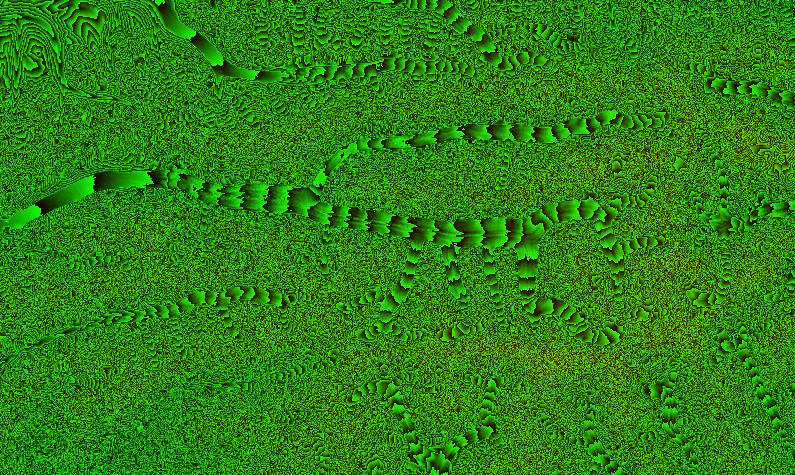
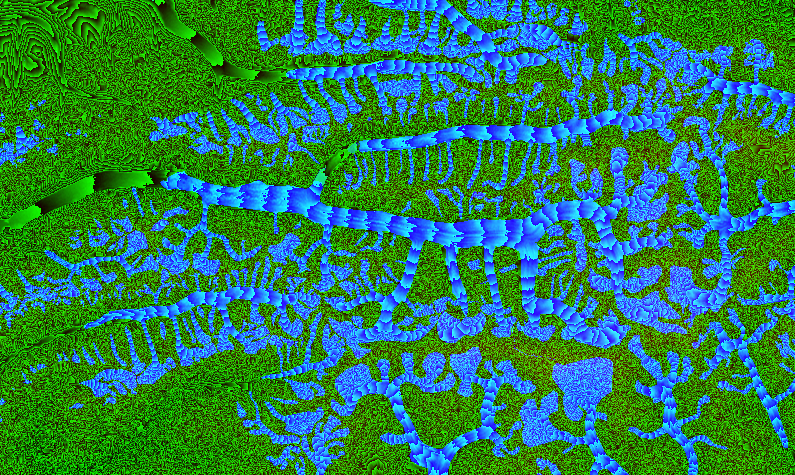
Хан-Тенгри по OpenStreetMap: ледники -- по 341 настоящему контуру (маска в khan.png), Верхнее озеро Мерцбахера -- по контуру OSM, база Ми-8 -- на настоящей вертолётной площадке Южного Иныльчека, миссии -- в настоящих лагерях маршрута на Хан-Тенгри (4200 и 5200 м), подписи главных вершин с высотами. 
Claude-Session: https://claude.ai/code/session_01WeBHUeTcGADwqRGFEtPdA5

diff --git a/src/khanosm.js b/src/khanosm.js
@@ -1,0 +1,7 @@
+// Район Хан-Тенгри по OpenStreetMap (© участники OpenStreetMap, ODbL), tools/zone-osm.mjs: вершины [имя, X, Y, высота, седловина?],
+// лагеря альпинистов [имя, X, Y, высота], вертолётная площадка базы Южный Иныльчек, контур Верхнего озера Мерцбахера.
+// Маска ледников (255) и озера (128) -- в синем канале khan.png.
+export const KPEAKS = [["Пик Победы",247185,-66578,7439],["Обелиск",245354,-66213,7200],["Хан-Тенгри",250910,-47172,7010],["Важа Пшавела",243198,-65476,6918],["пик Военных Топографов",257032,-64513,6873],["Советской Армении",248933,-66577,6850],["Военных Топографов Западная",256435,-64547,6816],["Рапасова Западная",259838,-63191,6814],["пик Дружба",258482,-56935,6800],["Кюэлебоси",266512,-44589,6769],["Восточный пик Победы",252795,-66318,6762],["Рапасова Южная",260667,-64878,6747],["Рапасова Центральная",260598,-64446,6710],["Неру",240195,-65015,6701],["Восточный Шатёр",257116,-46242,6637],["Нагела",257990,-58724,6565],["Памяти экипажа «Союза-11»",237052,-65843,6537],["Погребецкого",256316,-57149,6527],["Западный Шатёр",255292,-46526,6511],["Южное плечо пика Нагела",257802,-59772,6415],["Погребецкого Центральная",255843,-57028,6410],["пик Чапаева",247906,-48457,6371],["Погребецкого Западная",255410,-57194,6370],["Тореза",257951,-52547,6320],["Пржевальского",259848,-44490,6276],["Грудзинского Михаила",260052,-42098,6261],["САВО",234123,-65925,6241],["Дыбенко",234775,-65393,6215],["Зорге",258487,-49478,6210],["100-летия РГО",259915,-43460,6203],["1000-летия Крещения Руси",251960,-60891,6201],["пик Актау",249599,-58086,6181],["Мраморная Стена",258563,-39254,6146],["Петьки",248580,-46455,6120],["8-ми альпинисток",259873,-40559,6110],["пик Кирова",227124,-66634,6073],["Валиханова",256997,-52598,6060],["пик Максима Горького",243739,-49932,6050],["Снежная сказка",258368,-51128,6020],["Высокий",253912,-62599,5964,1],["пик Визбора",254276,-71532,5960],["пик Евгения Абалакова",245962,-48178,5940],["Саладина",253239,-45180,5901],["пик Ауэзова",250348,-57059,5900],["Западное седло Хан-Тенгри",249264,-46607,5860,1],["пик Петровского",233528,-49716,5860],["Баянкол",250941,-39043,5841],["Семёнова",246260,-39921,5816],["Нагела",256185,-59919,5770,1],["Казахстан",253626,-39254,5761],["Эдельвейс",255451,-53085,5740],["Красной Армии",224230,-62249,5736],["пик Шокальского",222511,-58883,5722],["Восточное седло Хан-Тенгри",252886,-45292,5720,1],["Актау",249026,-57725,5710,1],["Мраморная Стена",257531,-38309,5700,1],["Пик Нансена",206352,-53901,5697],["Открытий",254325,-53311,5664],["Волынка",235723,-62791,5631],["Пирамида",248808,-57452,5600],["Вертолётный",241433,-50074,5600,1],["пик 1000-летия Казани",219620,-44852,5576],["Советской Киргизии",240228,-50126,5561],["Трёхглавый",247992,-54497,5504],["Иныльчекский",258242,-47967,5500,1],["Дикий",243127,-62843,5500,1],["Евгения Абалакова",246241,-48211,5500,1],["Чонтерен",254106,-65019,5488,1],["пик Тюрина",231040,-49658,5478],["Карлытау",255476,-39706,5477],["Дарбаза-тау",255299,-49013,5462],["Игнатьева",239789,-39792,5460],["Одиннадцати",248246,-38873,5437],["Лавинный",251048,-62803,5430],["Дарбаза",255181,-48774,5410,1],["Крупской",237468,-48833,5390],["Краснова",242375,-40443,5378],["Пржевальского",259065,-45052,5370,1],["Рыжова",236503,-49097,5360],["Снежная лестница",228472,-41500,5310],["Майлина",250257,-54322,5300],["Арбат",223161,-61612,5300,1],["Фиделя Кастро",225569,-58828,5260,1],["Пионер",225025,-43397,5251],["Лениского Клуба Туристов Москвы",247644,-39250,5250,1],["Дружба",209513,-58082,5250,1],["Кубинской Револющии",225161,-59028,5240],["Вернадского",234348,-58812,5235],["Волкова Николая",251963,-38540,5230,1],["Сланцевый",243183,-61715,5230],["Коляды",227981,-49385,5211],["Жолак-Тоо",251903,-50476,5210],["Северный",249051,-55548,5210,1],["Перо",247159,-58458,5210],["Хрищатого",258891,-54086,5200,1],["Севастополь",237596,-39274,5200,1],["Опасный",245292,-38720,5200,1],["Канджайляу-2",208183,-57553,5200,1],["Канджайляу-1",207710,-57555,5200,1],["Каинды",223586,-60506,5200,1],["Панорамный",242350,-39909,5180,1],["Шахтёров Украины",226170,-54992,5120],["Тугбельчи",264409,-60644,5100,1],["Одесса",238450,-39389,5100,1],["Мерцбахера",224185,-43069,5100,1],["Куюкап",226019,-64956,5100,1],["Константина Заслонова",219594,-56854,5100,1],["Железнодорожник",225812,-64391,5100,1],["Ноктюрн",249999,-55214,5100,1],["Парашютный",246282,-58654,5100],["Карлытау",254892,-38886,5090,1],["Михайлова",237803,-47706,5040],["Пик Александра фон Гумбольдта",193466,-60053,5020],["Пограничник",258716,-36094,5000],["Снежная лестница",227449,-42362,5000,1],["Пирамида",235628,-40397,5000,1],["Одиннадцати",249346,-37943,5000,1],["30-летия Победы",220381,-64483,5000,1],["Тараса Шевченко",216094,-57302,5000,1],["Че Гевары",225620,-59352,5000,1],["Пролетарский турист",234881,-61226,5000,1],["Тюрина",232183,-49653,5000,1],["Юнусова Р.",196346,-59213,4900,1],["Российской экспедиции",218046,-56047,4900,1],["Путеводный",207039,-56361,4900,1],["Проходной",227037,-62112,4900,1],["Академика Казаринова",213125,-65441,4870,1],["Гагарина",197347,-60054,4850,1],["Одесская Ривьера",215650,-45318,4850,1],["Путёк Южный",220615,-45941,4835,1],["Ульяновский",226873,-49587,4800,1],["Томичей",232799,-41277,4800,1],["Мощный Восточный",217288,-65990,4800,1],["Четырёх",234413,-57586,4800,1],["Академика Фрумкина",212224,-65049,4780,1],["Пролетарской печати",230026,-42168,4750,1],["Спортклуба МВТУ им.Баумана",199663,-59915,4750,1],["Мощный Центральный",216700,-65978,4750,1],["Спортклуба КАМАЗ",201328,-58597,4700,1],["Ракетчиков",217093,-56791,4700,1],["Подводников",215223,-57488,4700,1],["Олимпийский",198399,-60303,4700,1],["Мощный Западный",216136,-66092,4700,1],["Пионер",225844,-42912,4660,1],["Харьковский политехник",243027,-32866,4650,1],["Северный Дикий",242036,-57297,4625,1],["Сигитова",243197,-34743,4600,1],["Восточный Ашутер",241408,-32796,4600,1],["Перестройка",194902,-60628,4600,1],["Чонтерен Южный",254827,-75950,4565,1],["Памяти экспедиции \"Локомотива\"",220328,-75024,4560,1],["Семёнова",243354,-33244,4500,1],["Шокальского",218316,-55415,4500,1],["Лушникова",197188,-60324,4500,1],["Пржевальского",196896,-60496,4500,1],["Мушкетова",238242,-37049,4450,1],["Спокойный Восточный",192871,-61543,4420,1],["Баянкольский",245942,-36342,4400,1],["Розовый",244044,-35403,4400,1],["Кольцевой",192849,-61910,4400,1],["Рериха Николая",208240,-44496,4320,1],["Двух Жандармов",211642,-46049,4314,1],["Броненосец Ложный",225602,-49945,4310,1],["Разведочный",217980,-42682,4308,1],["Средний",210020,-44064,4300,1],["Пабло Неруды",209046,-44308,4300,1],["Подарок",194346,-68983,4300,1],["Западный Сквозной",220314,-36040,4279,1],["Гагарина",246924,-33050,4276,1],["Забытый",195370,-44853,4270,1],["Броненосец",225103,-49977,4260,1],["Лейтенантов",237684,-35273,4240,1],["Булантор Центральный",195962,-67402,4231,1],["Отрог",217582,-35685,4220,1],["Космонавтов",244376,-33010,4200,1],["Карасай",242484,-31110,4200,1],["Дозорный",192175,-70544,4200,1],["Разведчиков",217443,-55002,4200,1],["Обзорный",236118,-36279,4200,1],["Булантор Восточный",196960,-67010,4150,1],["Переметный",243929,-32270,4100,1],["Внутренний",240425,-31285,4100,1],["Корумду",192844,-44954,4100,1],["Плато",208713,-42951,4065,1],["Тренировочный",250152,-33624,4054,1],["Ачикташ",200662,-45199,4050,1],["Китайский",257517,-33599,4010,1],["Тюз",201659,-44860,4001,1],["Чонташ",210714,-43674,4000,1],["Студенческий",227225,-36029,4000,1],["Сквозной",221141,-36314,4000,1],["Семи москвичей",223264,-36187,4000,1],["Майбулак",207282,-43656,3900,1],["Верхний Майбулак",205957,-44967,3900,1],["Джонашу",207840,-77758,3640,1],["Айрансу",220902,-76766,0,1],["1000-летия крещения Руси",221962,-63972,0,1],["Подрядчикова",222408,-62423,0,1],["Мирошкина",225165,-49458,0,1],["Кругозор",254680,-33359,0,1]];
+export const KCAMPS = [["Поляна Мерцбахера",221506,-52211,0],["Лагерь 1",244461,-62121,4600],["Лагерь 2",243121,-62878,5200],["Лагерь 3",242861,-64152,5700],["Лагерь 6100",242911,-64438,6100],["Лагерь 4",242903,-64753,6400],["Лагерь 5",243291,-65606,6900],["Лагерь 6",245322,-66219,7100],["лагерь",242923,-64886,0],["лагерь",243019,-65232,6700],["лагерь",245698,-66277,0],["Лагерь 1",249160,-50957,4200],["Лагерь 2",248952,-47762,5200],["Лагерь 3",249277,-46587,5700],["лагерь",203364,-47900,0],["лагерь",207425,-47767,0],["лагерь",198206,-51050,0],["лагерь",199320,-39899,0],["Базовый лагерь \"Слияние\"",252979,-33154,3250],["лагерь",242838,-63997,0],["Лагерь 1",258254,-34192,4300],["Лагерь 1",249433,-44821,0],["Базовый лагерь Хан-Тенгри",247818,-43295,0],["Лагерь 2",249046,-45821,0],["Ива",206832,-49310,0],["Глина",213669,-51260,0],["Дикий",239779,-55537,0],["Комсомолец",230814,-53767,0],["лагерь",254224,-50194,0],["лагерь",250805,-47162,6900],["лагерь",250524,-47058,6600],["лагерь",250360,-46999,6400],["лагерь",250306,-46994,6350]];
+export const KHELI = [244669,-54951];
+export const KLAKE = [[226462,-45265],[226479,-45244],[226489,-45240],[226493,-45243],[226493,-45252],[226494,-45259],[226496,-45259],[226506,-45248],[226524,-45243],[226529,-45253],[226537,-45256],[226546,-45247],[226554,-45247],[226565,-45241],[226571,-45241],[226574,-45249],[226572,-45260],[226584,-45263],[226602,-45262],[226610,-45259],[226611,-45250],[226606,-45247],[226598,-45248],[226595,-45246],[226591,-45247],[226588,-45253],[226584,-45259],[226580,-45257],[226579,-45250],[226587,-45238],[226592,-45222],[226585,-45211],[226581,-45200],[226587,-45186],[226606,-45180],[226624,-45184],[226631,-45183],[226635,-45174],[226637,-45167],[226630,-45162],[226623,-45161],[226618,-45164],[226613,-45166],[226606,-45165],[226605,-45158],[226625,-45139],[226637,-45141],[226641,-45152],[226639,-45159],[226644,-45160],[226649,-45159],[226656,-45159],[226657,-45155],[226654,-45149],[226654,-45142],[226659,-45141],[226664,-45143],[226669,-45141],[226670,-45131],[226684,-45099],[226711,-45061],[226747,-45051],[226755,-45056],[226763,-45056],[226777,-45048],[226781,-45031],[226801,-45027],[226831,-45000],[226842,-44986],[226869,-44997],[226896,-44998],[226915,-44981],[226967,-44898],[227013,-44863],[227042,-44866],[227048,-44900],[227054,-44934],[227070,-44940],[227104,-44917],[227126,-44860],[227141,-44848],[227151,-44850],[227155,-44869],[227168,-44877],[227175,-44878],[227185,-44872],[227195,-44874],[227202,-44879],[227226,-44878],[227315,-44904],[227351,-44910],[227426,-44949],[227466,-44991],[227462,-45029],[227439,-45077],[227418,-45100],[227381,-45110],[227342,-45090],[227318,-45095],[227259,-45154],[227177,-45192],[227120,-45221],[227093,-45290],[227094,-45301],[227084,-45303],[227068,-45306],[227057,-45326],[227062,-45351],[227095,-45382],[227143,-45375],[227158,-45380],[227192,-45400],[227213,-45447],[227172,-45502],[227136,-45515],[227127,-45529],[227144,-45547],[227186,-45564],[227248,-45598],[227272,-45647],[227268,-45657],[227250,-45658],[227236,-45673],[227234,-45698],[227233,-45713],[227213,-45719],[227114,-45707],[227032,-45668],[227000,-45657],[226977,-45681],[226948,-45687],[226933,-45697],[226936,-45724],[226976,-45744],[227018,-45786],[227028,-45828],[227021,-45854],[226995,-45867],[226972,-45896],[226968,-45955],[226956,-45984],[226939,-45982],[226889,-45929],[226842,-45926],[226819,-45952],[226807,-45957],[226771,-45947],[226749,-45946],[226722,-45948],[226684,-45933],[226661,-45918],[226646,-45906],[226635,-45904],[226628,-45900],[226629,-45897],[226634,-45895],[226632,-45893],[226614,-45891],[226579,-45887],[226552,-45876],[226541,-45880],[226536,-45893],[226511,-45885],[226485,-45853],[226452,-45834],[226443,-45838],[226448,-45844],[226455,-45849],[226454,-45857],[226439,-45863],[226424,-45869],[226414,-45875],[226402,-45880],[226399,-45879],[226400,-45876],[226402,-45872],[226396,-45870],[226389,-45865],[226388,-45857],[226381,-45855],[226374,-45858],[226355,-45855],[226348,-45849],[226351,-45814],[226350,-45789],[226347,-45783],[226340,-45779],[226334,-45766],[226337,-45759],[226344,-45755],[226346,-45750],[226348,-45747],[226356,-45753],[226370,-45758],[226375,-45751],[226372,-45744],[226349,-45736],[226325,-45713],[226313,-45691],[226307,-45670],[226308,-45633],[226294,-45614],[226248,-45593],[226232,-45591],[226219,-45591],[226212,-45582],[226220,-45570],[226250,-45560],[226263,-45552],[226275,-45539],[226319,-45497],[226351,-45441],[226383,-45408],[226415,-45376],[226430,-45367],[226453,-45347],[226463,-45322],[226460,-45305],[226460,-45296],[226469,-45287],[226485,-45281],[226486,-45279],[226482,-45279],[226471,-45282],[226465,-45281],[226461,-45274]];

diff --git a/src/khan.js b/src/khan.js
@@ -7,6 +7,8 @@ import * as THREE from 'three';
 import { KHAN, KHAN_POI } from './khandata.js';
 import { gridTerrain } from './world.js';
 import { lakeBowl } from './merz.js';
+import { KPEAKS, KCAMPS, KHELI, KLAKE } from './khanosm.js';
+export { KPEAKS, KCAMPS, KHELI, KLAKE };
 
 export const KHAN_NAMES = { khan: 'Хан-Тенгри', pobeda: 'пик Победы', merz: 'озеро Мерцбахера', bcS: 'базовый лагерь Южный Иныльчек', bcN: 'базовый лагерь Северный Иныльчек', tongue: 'язык ледника Иныльчек' };
 const { W, H, X0, Y1, STEP } = KHAN;
@@ -14,14 +16,14 @@ export const khanInside = (X, Y) => X > X0 + STEP && X < X0 + (W - 2) * STEP && 
 
 // Ледники по карте высот: пологое дно вогнутых долин выше ~2900 м -- лёд; течение -- вниз по сглаженному рельефу.
 // aG: x -- ледник 0..1, y, z -- направление течения (X, Y мира)
-function glaciers(hs) { const N = W * H, at = (A, i, j) => A[Math.min(H - 1, Math.max(0, j)) * W + Math.min(W - 1, Math.max(0, i))];
+function glaciers(hs, osm) { const N = W * H, at = (A, i, j) => A[Math.min(H - 1, Math.max(0, j)) * W + Math.min(W - 1, Math.max(0, i))];
   const blur = (A, r) => { const T = new Float32Array(N), O = new Float32Array(N); // коробочное сглаживание радиусом r клеток (по осям)
     for (let j = 0; j < H; j++) { let s = 0; for (let i = -r; i <= r; i++) s += at(A, i, j); for (let i = 0; i < W; i++) { T[j * W + i] = s / (2 * r + 1); s += at(A, i + r + 1, j) - at(A, i - r, j); } }
     for (let i = 0; i < W; i++) { let s = 0; for (let j = -r; j <= r; j++) s += at(T, i, j); for (let j = 0; j < H; j++) { O[j * W + i] = s / (2 * r + 1); s += at(T, i, j + r + 1) - at(T, i, j - r); } } return O; };
   const sm = (a, b, x) => { const t = Math.max(0, Math.min(1, (x - a) / (b - a))); return t * t * (3 - 2 * t); };
   const m6 = blur(hs, 6), m2 = blur(hs, 1), big = blur(hs, 10), g = new Float32Array(N), out = new Float32Array(N * 3);
   for (let j = 0; j < H; j++) for (let i = 0; i < W; i++) { const k = j * W + i, sx = (at(m2, i + 1, j) - at(m2, i - 1, j)) / (2 * STEP), sy = (at(m2, i, j - 1) - at(m2, i, j + 1)) / (2 * STEP), sl = Math.hypot(sx, sy), asl = hs[k] + 1607, cv = m6[k] - hs[k];
-    g[k] = sm(0.30, 0.14, sl) * sm(2850, 3050, asl) * sm(-15, 30, cv); }
+    g[k] = osm ? (osm[k] === 255 ? 1 : 0) : sm(0.30, 0.14, sl) * sm(2850, 3050, asl) * sm(-15, 30, cv); } // ледники -- по контурам OpenStreetMap; без них -- догадка по рельефу
   const gb = blur(g, 1);
   for (let j = 0; j < H; j++) for (let i = 0; i < W; i++) { const k = j * W + i, fx = -(at(big, i + 1, j) - at(big, i - 1, j)), fy = -(at(big, i, j - 1) - at(big, i, j + 1)), l = Math.hypot(fx, fy) || 1;
     out[k * 3] = Math.min(1, gb[k] * 1.25); out[k * 3 + 1] = fx / l; out[k * 3 + 2] = fy / l; }
@@ -33,12 +35,13 @@ export function loadKhan(scene, url = 'khan.png') {
   if (loading) return loading;
   loading = new Promise((res, rej) => { const img = new Image(); img.onload = () => {
     const c = document.createElement('canvas'); c.width = W; c.height = H; const g = c.getContext('2d', { willReadFrequently: true }); g.drawImage(img, 0, 0);
-    const d = g.getImageData(0, 0, W, H).data, hs = new Float32Array(W * H); for (let i = 0; i < W * H; i++) hs[i] = (d[i * 4] * 256 + d[i * 4 + 1]) / 4 - 64;
-    const m0 = KHAN_POI.merz, merzTop = lakeBowl({ hs, W, H, X0, Y1, STEP }, m0[0], m0[1], true).top; // дно озера Мерцбахера -- чашей
-    const aG = glaciers(hs), mesh = gridTerrain(hs, W, H, X0, Y1, STEP, { aG }); scene.add(mesh);
+    const d = g.getImageData(0, 0, W, H).data, hs = new Float32Array(W * H), osm = new Uint8Array(W * H); for (let i = 0; i < W * H; i++) { hs[i] = (d[i * 4] * 256 + d[i * 4 + 1]) / 4 - 64; osm[i] = d[i * 4 + 2]; }
+    const lc = KLAKE.reduce((a, p) => [a[0] + p[0] / KLAKE.length, a[1] + p[1] / KLAKE.length], [0, 0]), m0 = KLAKE.length ? lc : KHAN_POI.merz, merzTop = lakeBowl({ hs, W, H, X0, Y1, STEP, osm }, m0[0], m0[1], true).top; // дно озера Мерцбахера -- чашей
+    const aG = glaciers(hs, osm), mesh = gridTerrain(hs, W, H, X0, Y1, STEP, { aG }); scene.add(mesh);
     const h = mesh.userData.heightAt;
     const poi = {}; for (const [k, [X, Y]] of Object.entries(KHAN_POI)) poi[k] = { X, Y, h: h(X, Y), name: KHAN_NAMES[k] };
-    res({ mesh, h, hs, aG, grid: { hs, W, H, X0, Y1, STEP }, inside: khanInside, poi, merzTop }); };
+    poi.merz = { ...poi.merz, X: m0[0], Y: m0[1], h: h(m0[0], m0[1]) }; if (KHELI) poi.bcS = { X: KHELI[0], Y: KHELI[1], h: h(KHELI[0], KHELI[1]), name: 'база Южный Иныльчек' }; // настоящие места по OSM
+    res({ mesh, h, hs, aG, osm, grid: { hs, W, H, X0, Y1, STEP, osm }, inside: khanInside, poi, merzTop }); };
     img.onerror = () => { loading = null; rej(new Error('не загрузился рельеф района Хан-Тенгри')); }; img.src = url; });
   return loading;
 }
@@ -55,4 +58,16 @@ export function makeSnow(scene, N = 2600) {
     for (let i = 0; i < N; i++) { const k = i * 3; a[k] += (vx + Math.sin(t * 2 + i) * 2) * dt; a[k + 1] += (-1.5 + Math.sin(t * 3 + i * 0.7) * 1.5) * dt; a[k + 2] += (vz + Math.cos(t * 2.3 + i) * 2) * dt;
       for (let c = 0; c < 3; c++) { if (a[k + c] > hs) a[k + c] -= S; else if (a[k + c] < -hs) a[k + c] += S; } }
     geo.attributes.position.needsUpdate = true; pts.position.copy(cam); } };
+}
+
+// Подписи вершин: главные пики района (OSM) -- имя и высота; видны, пока впереди и ближе 45 км, тают с расстоянием
+export function makePeakLabels(parent, h) {
+  const st = document.createElement('style'); st.textContent = '.kpk{position:fixed;left:0;top:0;pointer-events:none;color:#fff;font:700 13px var(--ui,sans-serif);text-shadow:0 1px 6px rgba(0,10,30,.9);white-space:nowrap;transform-origin:50% 100%}.kpk small{display:block;font-weight:400;font-size:11px;opacity:.85;text-align:center}.kpk:after{content:"";display:block;width:1px;height:14px;margin:2px auto 0;background:rgba(255,255,255,.7)}'; document.head.appendChild(st);
+  const KEY = /Хан|Победы|Шат|Мрамор|Топограф|Неру|Пржевал|Семёнов/; const list = KPEAKS.filter((p) => !p[4] && KEY.test(p[0]) && !/Западная/.test(p[0])).slice(0, 8).map(([n, X, Y, e]) => { const el = document.createElement('div'); el.className = 'kpk'; el.innerHTML = `${n}<small>${e} м</small>`; el.hidden = true; parent.appendChild(el); return { el, X, Y, Z: h(X, Y) + 60 }; });
+  const v = new THREE.Vector3();
+  return { update(camera, on) { const w = window.innerWidth, H = window.innerHeight;
+    const taken = []; // список уже в порядке убывания высоты: ниже стоящая подпись не налезает на высокую
+    for (const p of list) { if (!on) { p.el.hidden = true; continue; } const d = Math.hypot(p.X - camera.position.x, p.Y + camera.position.z); v.set(p.X, p.Z - d * d / 14866000, -p.Y).project(camera);
+      const sx = (v.x * 0.5 + 0.5) * w, sy = (0.5 - v.y * 0.5) * H; let show = v.z < 1 && d < 45000 && Math.abs(v.x) < 1.1 && Math.abs(v.y) < 1.1; if (show && taken.some(([a, b]) => Math.abs(a - sx) < 110 && Math.abs(b - sy) < 36)) show = false; p.el.hidden = !show; if (!show) continue; taken.push([sx, sy]);
+      p.el.style.opacity = (Math.min(1, (45000 - d) / 15000) * 0.95).toFixed(2); p.el.style.transform = `translate(${((v.x * 0.5 + 0.5) * w).toFixed(0)}px,${((0.5 - v.y * 0.5) * H).toFixed(0)}px) translate(-50%,-100%)`; } } };
 }

diff --git a/src/helimode.js b/src/helimode.js
@@ -10,6 +10,7 @@ import * as THREE from 'three';
 import { Heli, MI8, hoverCeiling } from './heli.js';
 import { makeHeli } from './helimodel.js';
 import { NPCART } from './npcart.js';
+import { KCAMPS } from './khanosm.js';
 import { clamp, wrapPi } from './sim.js';
 
 const AIRPORT = { X: -4385, Y: 1809 };
@@ -106,13 +107,16 @@ export function makeHeliMode(A) {
     const bc = z.poi.bcS, k = z.poi.khan, b = site(bc.X, bc.Y, 'base', { name: 'база «Южный Иныльчек»', people: 2, seed: 3 }); F.base = b;
     // лагерь 1 -- выше по леднику Южный Иныльчек, на 4000-4300 м, с чистым пролётом от базы; седловина -- у Хан-Тенгри,
     // 5000-5400 м, подлёт от лагеря без стены выше потолка груженого вертолёта
-    const c1p = onIce(bc, 4500, 8000, 4000, 4350, k), c1 = site(c1p.X, c1p.Y, 'camp', { name: 'лагерь 1, ледник Южный Иныльчек', people: 1, seed: 1 });
-    const c2p = reach(c1p, k, 6000, 5000, 5400), c2 = site(c2p.X, c2p.Y, 'slope', { name: 'седловина под Хан-Тенгри', people: 2, seed: 0 });
+    // настоящие лагеря южного маршрута на Хан-Тенгри (OpenStreetMap): лагерь 1 -- 4200 м на леднике Семёнова-Звёздочка,
+    // лагерь 2 -- 5200 м под стеной; без данных -- места по рельефу
+    const camp = (ele) => { let best = null; for (const [n, X, Y, e] of KCAMPS) { if (Math.abs(e - ele) > 60) continue; const d = Math.hypot(X - k.X, Y - k.Y); if (d < 12000 && (!best || d < best.d)) best = { X, Y, d, n }; } return best; };
+    const c1p = camp(4200) || onIce(bc, 4500, 8000, 4000, 4350, k), c1 = site(c1p.X, c1p.Y, 'camp', { name: 'лагерь 1 · 4200 м', people: 1, seed: 1 });
+    const c2p = camp(5200) || reach(c1p, k, 6000, 5000, 5400), c2 = site(c2p.X, c2p.Y, 'slope', { name: 'лагерь 2 · 5200 м', people: 2, seed: 0 });
     if (mode === 'merz' && G.merz) { const o = G.merz.out, ob = site(o.X, o.Y, 'none', { name: 'прорыв Мерцбахера' }); ob.z = G.merz.top;
       pts.push({ t: 'Гидрологи', d: 'Озеро Мерцбахера прорывается! Зависните у плотины — снимаем сброс воды', to: ob, how: 'watch', done: 'Снято! Данные ушли в Бишкек и Аксу' });
       pts.push({ t: 'На базу', d: 'В базовый лагерь Южный Иныльчек', to: b, how: 'land', done: 'Вылет завершён' }); return pts; }
-    pts.push({ t: 'Доставка', d: 'Медикаменты в лагерь 1 под Хан-Тенгри', to: c1, load: 350, how: 'land', done: 'Аптечка в лагере. Врач на связи' });
-    pts.push({ t: 'Эвакуация', d: 'Две туристки замерзают на седловине 5200 м — лебёдкой на борт', timer: true, to: c2, add: 2 * 60, how: 'winch', done: 'Обе на борту! Тяжелее на 120 кг — на высоте это чувствуется' });
+    pts.push({ t: 'Доставка', d: 'Медикаменты в лагерь 1 маршрута на Хан-Тенгри (4200 м)', to: c1, load: 350, how: 'land', done: 'Аптечка в лагере. Врач на связи' });
+    pts.push({ t: 'Эвакуация', d: 'Две туристки замерзают в лагере 2 на 5200 м — сесть нельзя, лебёдкой на борт', timer: true, to: c2, add: 2 * 60, how: 'winch', done: 'Обе на борту! Тяжелее на 120 кг — на высоте это чувствуется' });
     pts.push({ t: 'На базу', d: 'В базовый лагерь Южный Иныльчек — врачи ждут', to: b, how: 'land', done: 'Спасены. Экипаж МЧС — благодарность' });
     return pts; }
   function missionTick(dt) { const m = F.mis[F.mi]; if (!m) return; const dx = Hc.X - m.to.X, dy = Hc.Y - m.to.Y, d = Math.hypot(dx, dy);

diff --git a/src/main.js b/src/main.js
@@ -23,7 +23,7 @@ import { FAR_PX } from './corridorart.js';
 import { makeSpriteClouds } from './clouds.js';
 import { analyzeBasinAsync } from './cloudgeo.js';
 import { makeStars, sunDir as astroSun } from './stars.js';
-import { loadKhan, khanInside, makeSnow } from './khan.js';
+import { loadKhan, khanInside, makeSnow, makePeakLabels } from './khan.js';
 import { makeHeliMode } from './helimode.js';
 import { makeMerz } from './merz.js';
 import { makeRidges, setRidgeRes } from './ridges.js';
@@ -527,7 +527,7 @@ function sunTint(sinEl, eve, storm) { const hD = Math.max(-0.6, Math.asin(clamp(
   const w = storm * 0.8; ENV.uSunCol.value.set(cr + (0.9 - cr) * w, cg + (0.9 - cg) * w, cb + (0.92 - cb) * w); ENV.uSunX.value = clamp(r * 1.06, 0, 1); ENV.uEve.value = eve ? 1 : 0; }
 // район Хан-Тенгри: рельеф грузится при первом входе (отдельный файл), дальше -- сразу
 async function startKhan(craft, merzNow = false) { const b = $('bfree'); b.classList.add('wait');
-  try { if (!G.khan) { toast('Летим на Хан-Тенгри… грузим рельеф Иныльчека'); G.khan = await loadKhan(scene); G.merz = makeMerz(scene, G.khan); G.snow = makeSnow(scene); } } catch (e) { toast(e.message); return; } finally { b.classList.remove('wait'); }
+  try { if (!G.khan) { toast('Летим на Хан-Тенгри… грузим рельеф Иныльчека'); G.khan = await loadKhan(scene); G.merz = makeMerz(scene, G.khan); G.snow = makeSnow(scene); G.klabels = makePeakLabels($('game'), G.khan.h); } } catch (e) { toast(e.message); return; } finally { b.classList.remove('wait'); }
   if (craft === 'jet') JM.startZone(G.khan); else if (craft === 'heli') { if (merzNow) G.merz.force(); HM.startFree(merzNow ? 'merz' : ''); } }
 function heliGo() { if (!HM) { toast('Вертолёт не загрузился — выберите другой снаряд'); return; } audio.start(); G.clock = G.todHour(); if (store.get('heliSite') === 'rwy') HM.startFree(); else startKhan('heli', store.get('heliSite') === 'merz'); }
 function dayCycle(dt) { if (G.clock === undefined) G.clock = 10; { const c = G.clock + (G.mode === 'menu' ? 0 : dt / 60 * (G.clockK || 1)); if (c >= 24) G.day = (G.day || 0) + 1; G.clock = c % 24; } const k = G.wx; if (!k) return; // G.day -- игровые сутки от 23 июля: идут сезоны; в меню время стоит на выбранном
@@ -592,6 +592,7 @@ function loop(now) {
   G.inKhan = !!(G.khan && khanInside(camera.position.x, -camera.position.z));
   // метель в районе: ветрено -- позёмка, буран -- снег стеной
   if (G.snow) { const U = HM && HM.on && HM.F ? HM.F.wU || 0 : { breeze: 10, santash: 22, ulan: 40 }[G.preset] || 0, d = 265 * Math.PI / 180; G.snow.update(dt, camera.position, { x: -Math.sin(d) * U, y: -Math.cos(d) * U }, G.inKhan ? Math.max(0, (U - 10) / 16) : 0); }
+  if (G.klabels) G.klabels.update(camera, G.inKhan && G.mode !== 'menu'); // подписи вершин района
   if (G.merz && G.inKhan) G.merz.update(dt, { X: camera.position.x, Y: -camera.position.z }, audio, G.spray); // озеро Мерцбахера: прорыв по часам // камера в районе Хан-Тенгри: облака выше и реже
   lodTick(dt);   if (G.jailoo) G.jailoo.update(dt, G.t); G.clouds.update(dt, camera, { cover: Math.min(1, Math.max(0, (ENV.uCover.value + 0.62) / 1.48)) * (G.inKhan ? 0.55 : 1), storm: ENV.uStorm.value, cirrus: ENV.uCirrus.value, wind: G.wind, clock: G.clock, preset: G.preset, baseUp: G.inKhan ? 2300 : 0 }); // облачность погоды (-0.62..0.86) -> 0..1; пресет -- какой ветер (улан, санташ, бриз)
   if (G.beach) G.beachHint = G.beach.update(dt, FT && FT.on ? FT.state : null);

diff --git a/src/merz.js b/src/merz.js
@@ -14,9 +14,11 @@ export function merzPhase(now = Date.now(), force0 = 0) { const t = force0 ? (no
 // в данных), в радиусе 4.5 км. carve -- прорезать дно: в данных рельефа на месте озера -- плоская гладь, и вода с ней
 // совпадала бы (мерцание); дно делаем чашей до 60 м глубиной к середине.
 export function lakeBowl(grid, X, Y, carve = false, top0 = null) { const { hs, W, H, X0, Y1, STEP } = grid, i0 = Math.round((X - X0) / STEP), j0 = Math.round((Y1 - Y) / STEP);
+  // контур озера из OSM (128 в маске), расширенный на 2 клетки: полное озеро чуть больше снимка
+  const osm = grid.osm, near = osm ? new Uint8Array(W * H) : null; if (near) for (let j = 2; j < H - 2; j++) for (let i = 2; i < W - 2; i++) if (osm[j * W + i] === 128) for (let b = -2; b <= 2; b++) for (let a = -2; a <= 2; a++) near[(j + b) * W + i + a] = 1;
   const top = top0 ?? hs[j0 * W + i0] + 45, R = 45, cells = new Uint8Array(W * H), q = [j0 * W + i0]; cells[q[0]] = 1;
   for (let h = 0; h < q.length; h++) { const k = q[h], i = k % W, j = (k / W) | 0; for (const [a, b] of [[1, 0], [-1, 0], [0, 1], [0, -1]]) { const ii = i + a, jj = j + b, kk = jj * W + ii;
-    if (ii < 0 || jj < 0 || ii >= W || jj >= H || cells[kk] || Math.hypot(ii - i0, jj - j0) > R || hs[kk] > top) continue; cells[kk] = 1; q.push(kk); } }
+    if (ii < 0 || jj < 0 || ii >= W || jj >= H || cells[kk] || Math.hypot(ii - i0, jj - j0) > R || hs[kk] > top) continue; if (near && !near[kk]) continue; cells[kk] = 1; q.push(kk); } }
   if (carve) { const dist = new Float32Array(W * H).fill(1e9), b = []; // расстояние до берега (в клетках)
     for (const k of q) { const i = k % W, j = (k / W) | 0; for (const [a, c] of [[1, 0], [-1, 0], [0, 1], [0, -1]]) if (!cells[(j + c) * W + i + a]) { dist[k] = 1; b.push(k); break; } }
     for (let h = 0; h < b.length; h++) { const k = b[h], i = k % W, j = (k / W) | 0; for (const [a, c] of [[1, 0], [-1, 0], [0, 1], [0, -1]]) { const kk = (j + c) * W + i + a; if (cells[kk] && dist[kk] > dist[k] + 1) { dist[kk] = dist[k] + 1; b.push(kk); } } }

diff --git a/dist/index.html b/dist/index.html
@@ -304,7 +304,7 @@ window.addEventListener('error',function(e){fail(e&&e.message)});window.addEvent
 var lastMsg='',still=0,wd=setInterval(function(){var g=document.getElementById('loadmsg');if(!L||L.classList.contains('done')||L.onclick){clearInterval(wd);return}
 if(g.textContent!==lastMsg){lastMsg=g.textContent;still=0;return}still+=5;if(still>=45){clearInterval(wd);g.textContent+=' Загрузка затянулась: нажмите, чтобы начать заново';L.style.cursor='pointer';L.onclick=function(){location.reload()};}},5000);})();</script>
 
-<script>(function(){var src="game.2a8e2371fa.js",size=6646788,m=document.getElementById('loadmsg'),f=document.getElementById('loadfill'),mb=function(b){return (b/1048576).toFixed(1)};
+<script>(function(){var src="game.9f1b19e923.js",size=6674717,m=document.getElementById('loadmsg'),f=document.getElementById('loadfill'),mb=function(b){return (b/1048576).toFixed(1)};
 function tag(){var s=document.createElement('script');s.src=src;s.onerror=function(){m.textContent='Не удалось скачать игру. Проверьте интернет и нажмите, чтобы попробовать ещё раз';var L=document.getElementById('load');L.style.cursor='pointer';L.onclick=function(){location.reload()}};document.body.appendChild(s)}
 if(location.protocol==='file:'||!window.fetch||!window.ReadableStream||!window.TextDecoder){tag();return}
 m.textContent='Загружаем игру…';

diff --git a/src/world.js b/src/world.js
@@ -406,6 +406,13 @@ void main(){ vec3 N=normalize(vN); float h=vH;
 #endif
   float ambK=0.42+0.58*smoothstep(-0.04,0.32,uSun.y); // низкое солнце -- рассеянного света мало: склоны против солнца уходят в тёмный силуэт
   vec3 col=c*(sunC*l*(1.25+0.75*sunny)+(shC*ao*(1.25+0.3*sunny)+snowM*vec3(0.36,0.42,0.60)*mix(1.,0.5,uStorm)*ao)*ambK);
+#ifdef ZONE
+  // цел-шейдинг высокогорья: свет ступенями -- тень (сине-фиолетовая, снег в тени голубеет), полутон, свет (тёплый);
+  // край ступени -- ровно в пиксель, без «лесенки»
+  { float L=dot(N,uSun)*uSunI, aw=max(fwidth(L)*1.2,0.02), t=0.42*smoothstep(0.06-aw,0.06+aw,L)+0.58*smoothstep(0.44-aw,0.44+aw,L);
+    vec3 shd=mix(mix(vec3(0.34,0.40,0.66),vec3(0.42,0.36,0.62),uDusk),vec3(0.30,0.33,0.40),uStorm)*(0.85+0.3*snowM), lit=sunC*1.18;
+    col=mix(col, c*mix(shd, lit, t)*(0.88+0.2*ao)*(0.55+0.45*ambK+0.25*t), 0.8); }
+#endif
 #ifdef DEMN
   // реки: вода нарисована прямо на склоне по запечённой маске русла -- светлые струйки бегут вниз по течению
   if(uRivOn>0.){ vec2 ru=vec2((vP.x-uRivT.x)*uRivT.z, (uRivT.y+vP.z)*uRivT.w); vec4 rv=texture2D(uRiv, clamp(ru,0.,1.));
